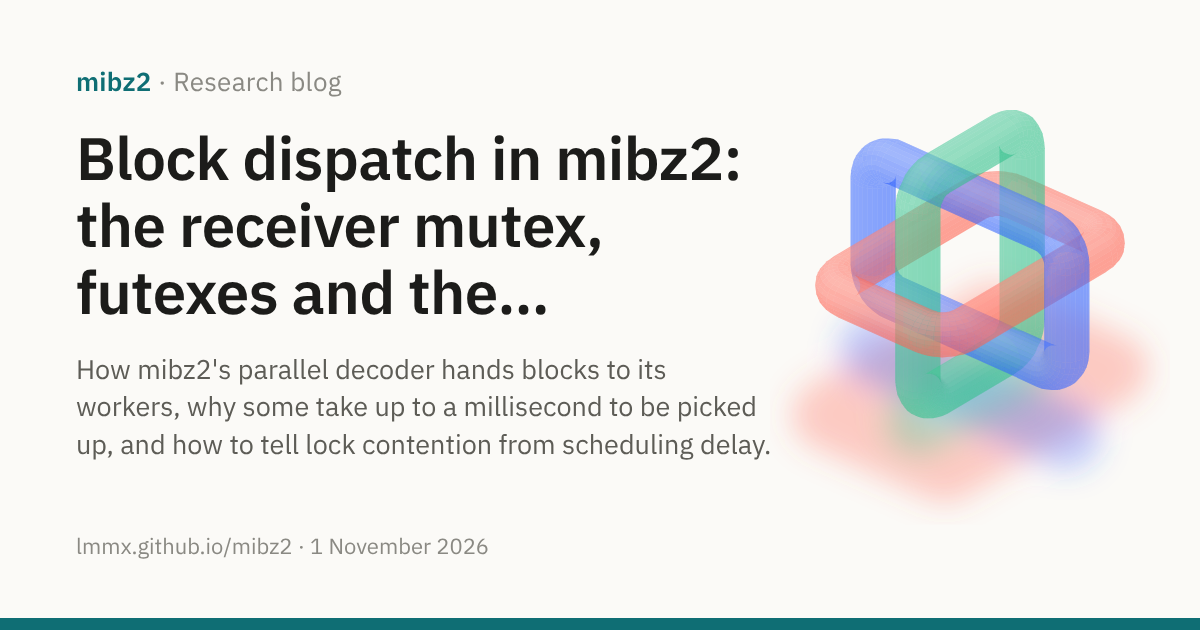
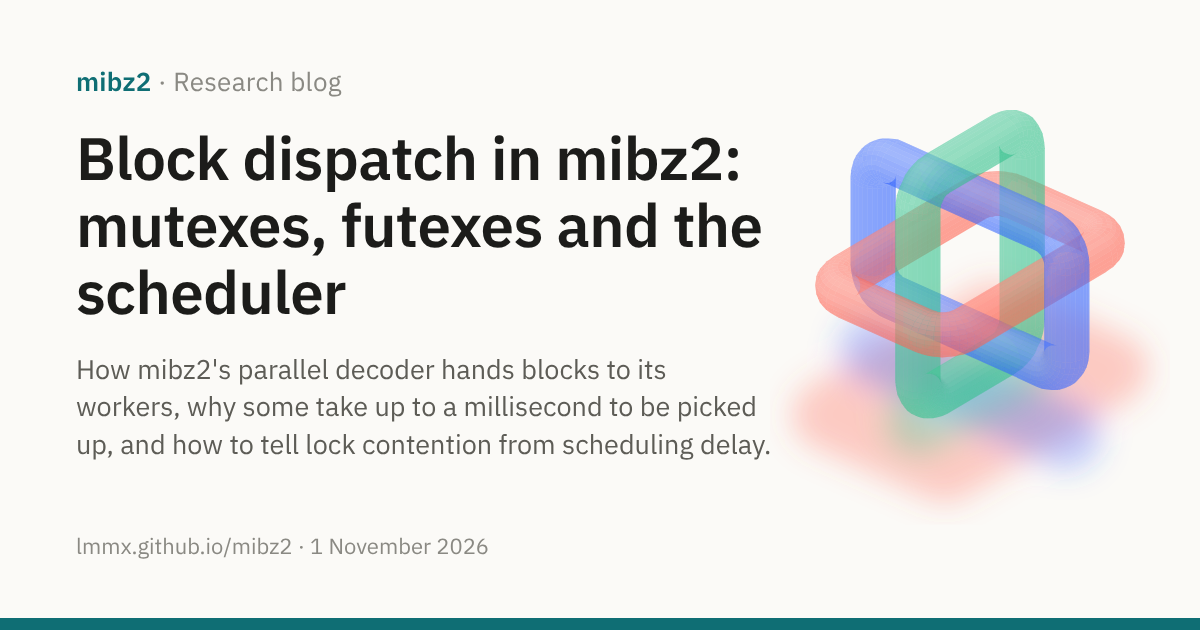
docs(blog): shorten the dispatch post's title so its social card shows it whole

Changed region(s): [[0.0617, 0.3016, 0.6475, 0.3921], [0.0617, 0.4222, 0.4625, 0.5127]]

diff --git a/docs/site/blog/index.md b/docs/site/blog/index.md
@@ -8,7 +8,7 @@ What mibz2's experiments are finding, and where they go next. The evidence behin
 post is in the [journals](../background/journals.md) and the pull requests they link.
 
 <div class="post-list">
-<a class="post-card" href="2026-11-01-block-dispatch.md"><img src="../assets/social/blog-2026-11-01-block-dispatch.png" alt="" loading="lazy"><span class="post-card-text"><span class="post-card-date">1 November 2026 · Investigation in progress</span><span class="post-card-title">Block dispatch in mibz2: the receiver mutex, futexes and the scheduler</span><span class="post-card-dek">How mibz2's parallel decoder hands blocks to its workers, why some take up to a millisecond to be picked up, and how to tell lock contention from scheduling delay.</span></span></a>
+<a class="post-card" href="2026-11-01-block-dispatch.md"><img src="../assets/social/blog-2026-11-01-block-dispatch.png" alt="" loading="lazy"><span class="post-card-text"><span class="post-card-date">1 November 2026 · Investigation in progress</span><span class="post-card-title">Block dispatch in mibz2: mutexes, futexes and the scheduler</span><span class="post-card-dek">How mibz2's parallel decoder hands blocks to its workers, why some take up to a millisecond to be picked up, and how to tell lock contention from scheduling delay.</span></span></a>
 <a class="post-card" href="2026-10-31-room-walk-overlap.md"><img src="../assets/social/blog-2026-10-31-room-walk-overlap.png" alt="" loading="lazy"><span class="post-card-text"><span class="post-card-date">31 October 2026 · Open question</span><span class="post-card-title">32 lanes, 8.6 chains: where the inverse BWT walk spends its cycles</span><span class="post-card-dek">The decoder's 32-lane walk runs 8.6 times faster than one chain. That figure may not mean what it seems: the walk may already hide memory latency, and spend too many instructions on each byte.</span></span></a>
 <a class="post-card" href="2026-10-29-compact-navigation-tables.md"><img src="../assets/social/blog-2026-10-29-compact-navigation-tables.png" alt="" loading="lazy"><span class="post-card-text"><span class="post-card-date">29 October 2026 · Work in progress</span><span class="post-card-title">Compact navigation tables for the inverse BWT: early findings</span><span class="post-card-dek">Most of the inverse BWT's navigation table follows simple patterns: what a census of real blocks found, and what comes next.</span></span></a>
 </div>

diff --git a/docs/site/blog/2026-11-01-block-dispatch.md b/docs/site/blog/2026-11-01-block-dispatch.md
@@ -1,5 +1,5 @@
 ---
-title: "Block dispatch in mibz2: the receiver mutex, futexes and the scheduler"
+title: "Block dispatch in mibz2: mutexes, futexes and the scheduler"
 image: assets/social/blog-2026-11-01-block-dispatch.png
 description: "How mibz2's parallel decoder hands blocks to its workers, why some take up to a millisecond to be picked up, and how to tell lock contention from scheduling delay."
 ---
@@ -11,7 +11,7 @@ description: "How mibz2's parallel decoder hands blocks to its workers, why some
 [mibz2 · Research blog](index.md)
 {: .post-kicker }
 
-# Block dispatch in mibz2: the receiver mutex, futexes and the scheduler
+# Block dispatch in mibz2: mutexes, futexes and the scheduler
 
 How mibz2's parallel decoder hands blocks to its workers, why some take up to a millisecond
 to be picked up, and how to tell lock contention from scheduling delay.
